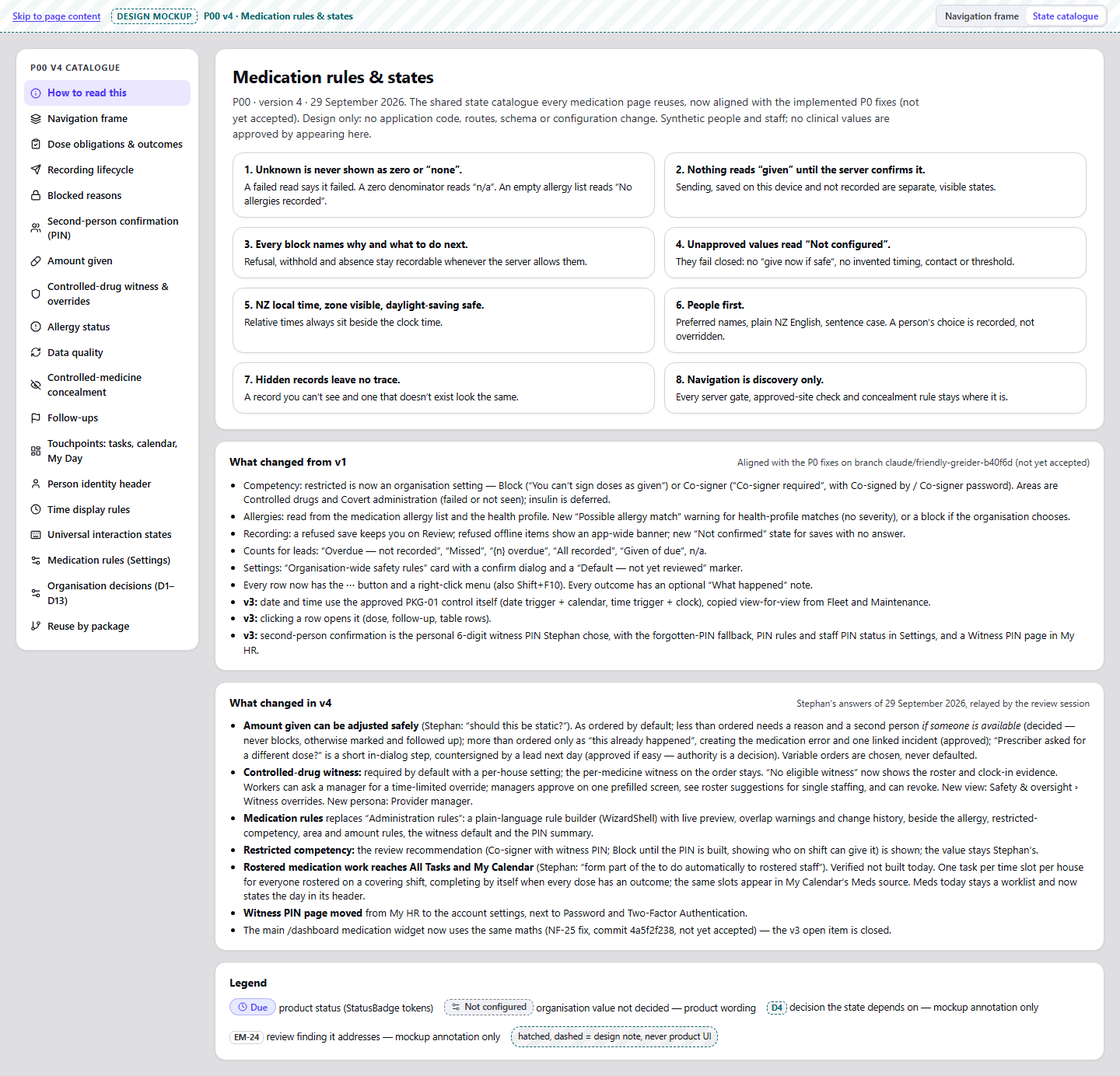
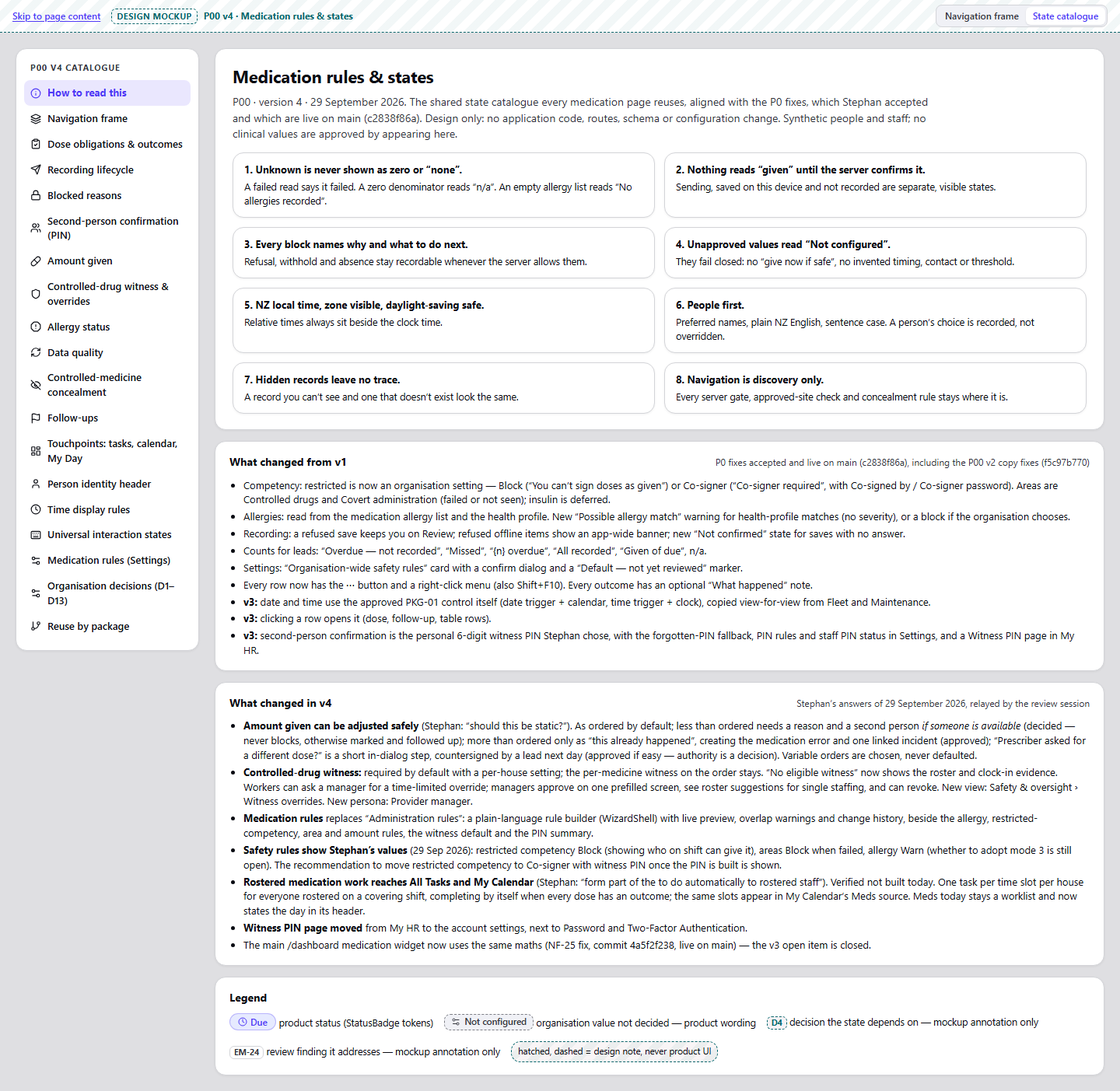
docs(emar): P00 v4 status matches main
The P0 fixes (c2838f86a), P00 v2 copy fixes (f5c97b770) and NF-25 are live
on main, and Stephan set the safety-rule values on 29 Sep 2026 (restricted
competency Block, areas Block when failed, allergy Warn). The mockup,
catalogue, README and VERSION hashes now say so; NF-26 and allergy mode 3
stay open.

diff --git a/docs/emar-design/P00/v4/mockup.js b/docs/emar-design/P00/v4/mockup.js
@@ -210,7 +210,7 @@
             text: 'Your medication competency is restricted (Hana Kereama, 2 March 2026: “supervised practice until reassessed”). A competent colleague must give doses.',
             next: ['Ask a competent colleague to give this dose. On shift now and able to give it: <b>Daniel Ahn</b>, <b>Jordan Tipene</b> (from the roster and who is clocked in).', 'Ask a competency assessor to review the restriction.'],
             still: 'notgiven', action: { label: 'View my eligibility', act: 'eligibility', icon: 'user-check' },
-            gate: 'Organisation safety rule “restricted competency” set to Block. Off by default. Review recommendation (v4): Co-signer with witness PIN; Block — showing who on shift can give it — until the witness PIN is built; never a co-signer by login password. The value is Stephan’s NF-03 decision.', depends: ['D3', 'NF-03 setting'], fixes: ['NF-03'],
+            gate: 'Organisation safety rule “restricted competency” set to Block. Off by default. Stephan set Block on 29 Sep 2026 (NF-03). Review recommendation: move to Co-signer with witness PIN once the PIN is built; never a co-signer by login password.', depends: ['D3', 'NF-03 setting'], fixes: ['NF-03'],
             note: 'Shown at the start of the dose and as-needed wizards, only when the organisation sets this rule. With Off, no notice shows and the restriction isn’t enforced.',
         },
         restrictedCosigner: {
@@ -446,7 +446,7 @@
         cdw: { org: 'on', kowhai: 'org', rimu: 'org', suggest: 'proposed' }, cdwDraft: { org: 'on', kowhai: 'org', rimu: 'org', suggest: 'proposed' },
         pinRules: { attempts: '', lockout: '', renewal: '', fallback: 'nc', fallbackCd: 'nc', resetRoles: 'nc', confirmLimit: '', routeTo: 'nc' },
         pinDraft: { attempts: '', lockout: '', renewal: '', fallback: 'nc', fallbackCd: 'nc', resetRoles: 'nc', confirmLimit: '', routeTo: 'nc' }, pinHistory: [],
-        safety: { profileAllergy: 'warn', restricted: 'off', area: 'off', amount: 'avail' }, safetyDraft: { profileAllergy: 'warn', restricted: 'off', area: 'off', amount: 'avail' }, safetySetBy: { amount: 'Stephan’s decision, 29 Sep 2026' },
+        safety: { profileAllergy: 'warn', restricted: 'block', area: 'failed', amount: 'avail' }, safetyDraft: { profileAllergy: 'warn', restricted: 'block', area: 'failed', amount: 'avail' }, safetySetBy: { profileAllergy: 'Stephan, 29 Sep 2026 — mode 3 still open', restricted: 'Stephan’s decision, 29 Sep 2026', area: 'Stephan’s decision, 29 Sep 2026', amount: 'Stephan’s decision, 29 Sep 2026' },
     };
     const SCENARIOS = [
         ['normal', 'Normal shift'],
@@ -1013,7 +1013,7 @@
                 filters: `${has(p, 'cd.view') || hub.id === 'settings' ? '' : '<span class="fchip static">Totals exclude medicines your role can’t see</span>'}<button type="button" class="fchip" data-act="toast" data-msg="Filter menus are designed with each page package (mockup).">${ic('home', 's3')}All approved houses${ic('chev-down', 's3')}</button><button type="button" class="fchip" data-act="toast" data-msg="Filter menus are designed with each page package (mockup).">${ic('calendar', 's3')}Today${ic('chev-down', 's3')}</button><span class="fchip static">${esc(view.label)} filters · ${view.pkg}</span>`,
                 rail: railHtml(items, view.id),
             });
-            body = hub.id === 'safety' && view.id === 'overview' ? `<div class="annot"><div class="a-tag">${ic('info', 's3')}Design note</div>The Overview page is redesigned in P09. Its counts already follow the P00 vocabulary below (implemented by the EM-01 fix, not yet accepted).</div>${leadCounts()}`
+            body = hub.id === 'safety' && view.id === 'overview' ? `<div class="annot"><div class="a-tag">${ic('info', 's3')}Design note</div>The Overview page is redesigned in P09. Its counts already follow the P00 vocabulary below (the EM-01 fix, live on main).</div>${leadCounts()}`
                 : hub.id === 'settings' && view.id === 'rules' ? medicationRulesView()
                 : hub.id === 'safety' && view.id === 'overrides' ? overridesView()
                 : hub.id === 'settings' && view.id === 'secondperson' ? secondPersonSettingsView()
@@ -1166,7 +1166,7 @@
      * P00 adds “Default — not yet reviewed” until someone deliberately saves a choice. */
     const SAFETY_RULES = [
         { key: 'profileAllergy', label: 'When a medicine matches a recorded allergy', help: 'The specific match is shown before signing in every mode. Built today: Warn and Block for health-profile matches; severe matches in the medication allergy list always block. The third option is new and not built.', opts: [['warn', 'Warn — show the match; “given” can still be recorded'], ['block', 'Block — contact the prescriber or an authorised override'], ['confirm', 'Block unless the prescriber has confirmed this allergy on the order (new)']], def: 'warn' },
-        { key: 'restricted', label: 'A worker’s medication competency is marked restricted', help: 'Refusals and withheld doses can always be recorded. The co-signer confirms with their own witness PIN — never their login password.', rec: 'Review recommendation: Co-signer with witness PIN. Until the witness PIN is built, Block (the dialog shows who on shift can give it). Stephan decides (NF-03).', opts: [['off', 'Off — no extra check'], ['block', 'Block — they can’t sign as given; the dialog shows who on shift can give it'], ['cosigner', 'Co-signer with witness PIN (recommended) — a present, qualified colleague confirms each dose']], def: 'off' },
+        { key: 'restricted', label: 'A worker’s medication competency is marked restricted', help: 'Refusals and withheld doses can always be recorded. The co-signer confirms with their own witness PIN — never their login password.', rec: 'Stephan set Block on 29 Sep 2026 (the dialog shows who on shift can give it). Review recommendation: move to Co-signer with witness PIN once the PIN is built — never a co-signer by login password.', opts: [['off', 'Off — no extra check'], ['block', 'Block — they can’t sign as given; the dialog shows who on shift can give it'], ['cosigner', 'Co-signer with witness PIN (recommended) — a present, qualified colleague confirms each dose']], def: 'off' },
         { key: 'area', label: 'The controlled-drug or covert area wasn’t passed', help: 'Applies to controlled-drug orders and orders with an active covert authorisation. Insulin isn’t covered yet: orders don’t record whether a medicine is insulin.', opts: [['off', 'Off — no extra check'], ['failed', 'Block when the area was failed'], ['failed_or_not_seen', 'Block when failed or not seen at assessment']], def: 'off' },
         { key: 'amount', label: 'Less than the ordered amount is given', help: 'A reason is always required. A colleague on shift confirms with their witness PIN; if nobody is available the dose is marked “Not confirmed by a second person” with a house-lead follow-up. A missing second person never blocks recording what actually happened. More than ordered is never a normal choice — it is recorded as a medication error with a linked incident.', opts: [['avail', 'If someone is available — never blocks'], ['always', 'Always — the house lead confirms later if nobody is on shift'], ['no', 'Not needed — the reason is enough']], def: 'avail' },
     ];
@@ -1174,7 +1174,7 @@
         const vals = S.safety, draft = S.safetyDraft;
         const changed = SAFETY_RULES.filter((r) => draft[r.key] !== vals[r.key]);
         return `<section class="card card-pad" aria-labelledby="sr-h" ${staticSpec ? 'inert' : 'id="sec-safety"'}><div class="cap-row" style="margin-bottom:2px"><h3 id="sr-h" tabindex="-1" style="outline:none">Organisation-wide safety rules</h3></div><p class="text-subtle" style="margin:0 0 6px;font-size:12.5px">These apply at every site when a dose is signed. Changes are recorded in the audit log.</p>
-            ${SAFETY_RULES.map((r) => `<div class="set-row"><div><label for="sr-${r.key}" style="font-weight:600;font-size:13px">${esc(r.label)}</label><div class="help">${esc(r.help)}</div></div><div><select id="sr-${r.key}" class="field" style="border:1px solid var(--input);border-radius:8px;min-height:36px;padding:0 8px;background:var(--card)" data-act="sr-sel" data-key="${r.key}" ${canManage ? '' : 'disabled'}>${r.opts.map(([v, l]) => `<option value="${v}"${draft[r.key] === v ? ' selected' : ''}>${esc(l)}</option>`).join('')}</select><div class="set-meta">${S.safetySetBy[r.key] ? `<span class="chipn">${S.safetySetBy[r.key].includes('decision') ? '' : 'Set by '}${esc(S.safetySetBy[r.key])}</span>` : `<span class="nc">${ic('settings', 's3')}Default — not yet reviewed</span>`}${r.rec ? `<span class="badge b-info sm">${ic('info')}Recommended: Co-signer with witness PIN</span>` : ''}</div>${r.rec ? `<div class="help" style="margin-top:4px">${esc(r.rec)}</div>` : ''}</div></div>`).join('')}
+            ${SAFETY_RULES.map((r) => `<div class="set-row"><div><label for="sr-${r.key}" style="font-weight:600;font-size:13px">${esc(r.label)}</label><div class="help">${esc(r.help)}</div></div><div><select id="sr-${r.key}" class="field" style="border:1px solid var(--input);border-radius:8px;min-height:36px;padding:0 8px;background:var(--card)" data-act="sr-sel" data-key="${r.key}" ${canManage ? '' : 'disabled'}>${r.opts.map(([v, l]) => `<option value="${v}"${draft[r.key] === v ? ' selected' : ''}>${esc(l)}</option>`).join('')}</select><div class="set-meta">${S.safetySetBy[r.key] ? `<span class="chipn">${S.safetySetBy[r.key].includes('decision') ? '' : 'Set by '}${esc(S.safetySetBy[r.key])}</span>` : `<span class="nc">${ic('settings', 's3')}Default — not yet reviewed</span>`}${r.rec ? `<span class="badge b-info sm">${ic('info')}Recommended later: Co-signer with witness PIN</span>` : ''}</div>${r.rec ? `<div class="help" style="margin-top:4px">${esc(r.rec)}</div>` : ''}</div></div>`).join('')}
             <div style="display:flex;justify-content:flex-end;margin-top:12px">${canManage ? `<button class="btn btn-primary btn-sm" type="button" data-act="sr-save" data-fk="sr-save" ${changed.length ? '' : 'disabled'}>Save safety rules</button>` : '<p class="text-caption" style="margin:0">Only someone who manages medication settings for all sites can change these rules.</p>'}</div>
         </section>`;
     }
@@ -1836,7 +1836,7 @@
     }
 
     function introSection() {
-        return `<div class="card cat-hero"><h1>Medication rules &amp; states</h1><p>P00 · version 4 · 29 September 2026. The shared state catalogue every medication page reuses, now aligned with the implemented P0 fixes (not yet accepted). Design only: no application code, routes, schema or configuration change. Synthetic people and staff; no clinical values are approved by appearing here.</p>
+        return `<div class="card cat-hero"><h1>Medication rules &amp; states</h1><p>P00 · version 4 · 29 September 2026. The shared state catalogue every medication page reuses, aligned with the P0 fixes, which Stephan accepted and which are live on main (c2838f86a). Design only: no application code, routes, schema or configuration change. Synthetic people and staff; no clinical values are approved by appearing here.</p>
             <div class="rules" style="margin-top:14px">
                 <div class="card rule"><b>1. Unknown is never shown as zero or “none”.</b>A failed read says it failed. A zero denominator reads “n/a”. An empty allergy list reads “No allergies recorded”.</div>
                 <div class="card rule"><b>2. Nothing reads “given” until the server confirms it.</b>Sending, saved on this device and not recorded are separate, visible states.</div>
@@ -1847,7 +1847,7 @@
                 <div class="card rule"><b>7. Hidden records leave no trace.</b>A record you can’t see and one that doesn’t exist look the same.</div>
                 <div class="card rule"><b>8. Navigation is discovery only.</b>Every server gate, approved-site check and concealment rule stays where it is.</div>
             </div></div>
-            <div class="card card-pad"><div class="cap-row"><h2>What changed from v1</h2><span class="text-caption">Aligned with the P0 fixes on branch claude/friendly-greider-b40f6d (not yet accepted)</span></div><ul style="margin:0;padding-left:18px;font-size:13px;display:grid;gap:3px">
+            <div class="card card-pad"><div class="cap-row"><h2>What changed from v1</h2><span class="text-caption">P0 fixes accepted and live on main (c2838f86a), including the P00 v2 copy fixes (f5c97b770)</span></div><ul style="margin:0;padding-left:18px;font-size:13px;display:grid;gap:3px">
                 <li>Competency: restricted is now an organisation setting — Block (“You can’t sign doses as given”) or Co-signer (“Co-signer required”, with Co-signed by / Co-signer password). Areas are Controlled drugs and Covert administration (failed or not seen); insulin is deferred.</li>
                 <li>Allergies: read from the medication allergy list and the health profile. New “Possible allergy match” warning for health-profile matches (no severity), or a block if the organisation chooses.</li>
                 <li>Recording: a refused save keeps you on Review; refused offline items show an app-wide banner; new “Not confirmed” state for saves with no answer.</li>
@@ -1862,10 +1862,10 @@
                 <li><b>Amount given can be adjusted safely</b> (Stephan: “should this be static?”). As ordered by default; less than ordered needs a reason and a second person <i>if someone is available</i> (decided — never blocks, otherwise marked and followed up); more than ordered only as “this already happened”, creating the medication error and one linked incident (approved); “Prescriber asked for a different dose?” is a short in-dialog step, countersigned by a lead next day (approved if easy — authority is a decision). Variable orders are chosen, never defaulted.</li>
                 <li><b>Controlled-drug witness:</b> required by default with a per-house setting; the per-medicine witness on the order stays. “No eligible witness” now shows the roster and clock-in evidence. Workers can ask a manager for a time-limited override; managers approve on one prefilled screen, see roster suggestions for single staffing, and can revoke. New view: Safety &amp; oversight › Witness overrides. New persona: Provider manager.</li>
                 <li><b>Medication rules</b> replaces “Administration rules”: a plain-language rule builder (WizardShell) with live preview, overlap warnings and change history, beside the allergy, restricted-competency, area and amount rules, the witness default and the PIN summary.</li>
-                <li><b>Restricted competency:</b> the review recommendation (Co-signer with witness PIN; Block until the PIN is built, showing who on shift can give it) is shown; the value stays Stephan’s.</li>
+                <li><b>Safety rules show Stephan’s values</b> (29 Sep 2026): restricted competency Block (showing who on shift can give it), areas Block when failed, allergy Warn (whether to adopt mode 3 is still open). The recommendation to move restricted competency to Co-signer with witness PIN once the PIN is built is shown.</li>
                 <li><b>Rostered medication work reaches All Tasks and My Calendar</b> (Stephan: “form part of the to do automatically to rostered staff”). Verified not built today. One task per time slot per house for everyone rostered on a covering shift, completing by itself when every dose has an outcome; the same slots appear in My Calendar’s Meds source. Meds today stays a worklist and now states the day in its header.</li>
                 <li><b>Witness PIN page moved</b> from My HR to the account settings, next to Password and Two-Factor Authentication.</li>
-                <li>The main /dashboard medication widget now uses the same maths (NF-25 fix, commit 4a5f2f238, not yet accepted) — the v3 open item is closed.</li>
+                <li>The main /dashboard medication widget now uses the same maths (NF-25 fix, commit 4a5f2f238, live on main) — the v3 open item is closed.</li>
             </ul></div>
             <div class="card card-pad"><div class="cap-row"><h2>Legend</h2></div><div style="display:flex;flex-wrap:wrap;gap:14px;align-items:center;font-size:12.5px">
                 <span>${dbadge('due')} product status (StatusBadge tokens)</span>
@@ -1914,7 +1914,7 @@
             { id: 'dose-due', name: 'Due', spec: row('due', 'Due now · 9:00 am'), wording: ['Due', 'Due now · 9:00 am'], when: 'Inside the approved window (D4) with no outcome recorded.', treatment: 'Info (primary tint). Primary “Record” button, 44 px target.', reuse: R.dose, depends: ['D4'], fixes: ['EM-01'], link: { href: hrefFrame('sw', 'today', 'schedule'), label: 'See it on Meds today' } },
             { id: 'dose-late', name: 'Late', spec: row('late', 'Due 8:00 am · 1 h 12 min ago', `<div class="banner warning" style="margin-top:6px"><span class="b-ico">${ic('alert-triangle')}</span><div class="b-body"><div class="b-title">This dose is late</div><div class="b-text">No late-dose instruction is set for this medicine. Check with the on-call contact before giving it: ${NC()}</div></div></div>`), wording: ['Late', 'Due 8:00 am · 1 h 12 min ago', 'This dose is late', 'No late-dose instruction is set for this medicine. Check with the on-call contact before giving it: Not configured'], when: 'After the approved window closes, while the dose can still be acted on this shift. Elapsed time is real time (DST-safe).', treatment: 'Warning (amber). Replaces “Give now if safe, or tell your supervisor”. When a per-medicine late instruction exists (D4), its text is shown instead, with its source.', never: '“Give now if safe”. Calling a dose late one minute after its time when a window is configured.', reuse: R.dose, depends: ['D4', 'D12'], fixes: ['EM-24', 'EM-02'], open: { label: 'Open the late dose dialog', attrs: 'data-act="record" data-row="r2" data-fk="cat-late"' } },
             { id: 'dose-not-yet-recorded', name: 'Not yet recorded', spec: row('notrecorded', '8:00 am dose · no outcome recorded') + `<p class="text-caption" style="margin:6px 0 0">Lead view: “3 not yet recorded” — never “0 due” and never “missed”.</p>`, wording: ['Not yet recorded', '8:00 am dose · no outcome recorded', 'No one has recorded what happened with this dose. It may have been given. Find out before anyone gives it, then record the outcome.'], when: 'A past obligation with no outcome once its window has closed (D4), and in every retrospective lens: handover, previous days, dashboard, reports, exports.', treatment: 'Critical. Counted from the obligation schedule, not from stored rows, so every surface shows the same number.', never: 'Shown as “missed”, blank, or counted as 0 because no row exists.', reuse: R.dose, depends: ['D4'], fixes: ['EM-01', 'EM-18'] },
-            { id: 'dose-lead-counts', name: 'Counts for leads (dashboard, client cards, handover)', spec: leadCounts() + leadCounts(true), wording: ['{n} doses due so far today across {houses}, and {n}% of due doses given so far.', '…and no doses due yet.', 'Overdue — not recorded', 'Missed', '{n} overdue', 'All recorded', 'Given of due: n/a'], when: 'Safety & oversight › Overview, client cards, handover and reports.', treatment: 'Counted from the obligation schedule on the NZ day, so the numbers match Meds today (implemented, EM-01 commit 1b9060953). “Overdue — not recorded” is the lead’s total of Late plus Not yet recorded doses; recorded “Missed” is separate. “Given of due” = given ÷ due and reads n/a when nothing is due. A person’s card says “All recorded” only when every due dose has an outcome. The main /dashboard medication widget uses the same maths (NF-25 fix, commit 4a5f2f238, not yet accepted).', never: '0 due while doses are late; 0 % or 100 % when nothing is due; a green “complete” with unrecorded doses.', reuse: ['Safety & oversight · Overview (/emar)', 'Client cards', 'Handover medication lens', 'Reports (P09)'], depends: ['D4'], fixes: ['EM-01', 'EM-18'], link: { href: hrefFrame('lead', 'safety', 'overview'), label: 'See it in Safety & oversight' } },
+            { id: 'dose-lead-counts', name: 'Counts for leads (dashboard, client cards, handover)', spec: leadCounts() + leadCounts(true), wording: ['{n} doses due so far today across {houses}, and {n}% of due doses given so far.', '…and no doses due yet.', 'Overdue — not recorded', 'Missed', '{n} overdue', 'All recorded', 'Given of due: n/a'], when: 'Safety & oversight › Overview, client cards, handover and reports.', treatment: 'Counted from the obligation schedule on the NZ day, so the numbers match Meds today (implemented, EM-01 commit 1b9060953). “Overdue — not recorded” is the lead’s total of Late plus Not yet recorded doses; recorded “Missed” is separate. “Given of due” = given ÷ due and reads n/a when nothing is due. A person’s card says “All recorded” only when every due dose has an outcome. The main /dashboard medication widget uses the same maths (NF-25 fix, commit 4a5f2f238, live on main).', never: '0 due while doses are late; 0 % or 100 % when nothing is due; a green “complete” with unrecorded doses.', reuse: ['Safety & oversight · Overview (/emar)', 'Client cards', 'Handover medication lens', 'Reports (P09)'], depends: ['D4'], fixes: ['EM-01', 'EM-18'], link: { href: hrefFrame('lead', 'safety', 'overview'), label: 'See it in Safety & oversight' } },
             { id: 'dose-missed', name: 'Confirmed missed', spec: row('missed', 'Recorded by Jordan T. at 11:30 am · Omitted in error'), wording: ['Missed', 'Recorded as missed — the dose was not given and won’t be given now.'], when: 'Only when a person records that the dose was not given and won’t be given, with a reason from the existing not-given list (for example “Omitted in error”).', treatment: 'Critical. A recorded outcome, distinct from “Not yet recorded”.', reuse: R.dose, depends: ['D4', 'D12'], fixes: ['EM-01'] },
             { id: 'dose-given', name: 'Given', spec: row('given', 'Given 1 tablet (500 mg) at 8:05 am · Priya S.', '<span class="state-line">Recorded 8:07 am</span>'), wording: ['Given', 'Given 1 tablet (500 mg) at 8:05 am · Priya S.', 'Recorded 8:07 am'], when: 'Staff gave the medicine (support level Administer) and the server confirmed it. For a variable order the actual amount is recorded, never the prescribed amount by default.', treatment: 'Success. The given time and the recorded time are both kept; detail views show both.', reuse: R.dose, depends: [], fixes: ['EM-08'] },
             { id: 'dose-prompted', name: 'Taken with prompting', spec: row('prompted', 'Taken 9:04 am · Priya S. reminded Aroha'), wording: ['Taken with prompting', 'Taken 9:04 am · Priya S. reminded Aroha'], when: 'The support plan says Prompt for this medicine and the person took it after a reminder.', treatment: 'Success, own icon. Offered instead of “Given” when the support level is Prompt.', reuse: R.dose, depends: ['D6'], fixes: ['EM-04'] },
@@ -2213,14 +2213,14 @@
             ]), wording: ['Match medicines by: Medicine name · Route · NZULM code · Type or class (new) · Controlled status (new)', 'Where it applies: All houses · Kōwhai House · Rimu House', 'Before the dose is saved: A second person confirms with their witness PIN · Record pulse · Record blood sugar (BSL) · Record blood pressure', 'Choose at least one: a second person or an observation.', 'Would apply now to {n} medicines for {n} people', 'Overlaps with another rule … Both apply where they overlap: the dose needs everything either rule asks for.', 'Showing medicines your role can see. Totals exclude medicines your role can’t see.', 'Rule added · Applies from the next dose saved.'], when: 'Add a rule, or Edit from a row.', treatment: 'Entity add/edit, so a WizardShell: what it applies to, what it requires, review. The sentence and a live preview of the medicines and people it would affect update as you choose; overlapping rules are named. Type/class matching is new and needs a medicine classification on orders (P04); controlled status uses the order’s controlled flag. The preview respects controlled-medicine concealment. No observation ranges are set here (no invented thresholds).', never: 'Silently saving a rule that requires nothing; showing controlled medicines to a role without access.', reuse: ['Settings (P11)'], depends: ['D2', 'D9'], fixes: ['EM-17', 'EM-12'], link: { href: hrefFrame('clinical', 'settings', 'rules') + '?open=rule:new', label: 'Open the builder' } },
             { id: 'rules-states', name: 'Empty, loading and couldn’t load', spec: stateStrip(['empty', 'loading', 'error'].map((d) => [{ empty: 'No rules yet', loading: 'Loading', error: 'Couldn’t load' }[d], inertBox(specW(null, () => medRulesCard(true), { rulesDemo: d }))])), wording: ['No medicine rules yet', 'Add a rule when a medicine needs a second person or an observation before each dose.', 'Loading medicine rules…', 'Couldn’t load the medicine rules', 'The rules still apply when doses are saved — this page just couldn’t show them.'], when: 'The rules list has none, is loading, or failed to load.', treatment: 'The P00 data-quality states: an error never reads as “no rules”.', reuse: ['Settings (P11)'], depends: [], fixes: ['EM-18'] },
             { id: 'rules-readonly', name: 'Read-only (no all-sites authority)', spec: `<div class="rail-more-pop ctx-menu" role="menu" aria-label="Actions (specimen)" style="position:static" inert>${menuHtml(menuItems('rule', 'mr1', 'lead'), 'spec')}</div>`, wording: ['Edit rule — Only someone who manages medication settings for all sites can change rules', 'Pause rule', 'View change history'], when: 'A house lead (or anyone without all-sites authority) opens Medication rules.', treatment: 'Everything is visible; changing actions stay listed, disabled, with the reason. Pause and resume go through a confirm dialog for those who can.', reuse: ['Settings (P11)'], depends: ['D2'], fixes: [] },
-            { wide: true, id: 'rules-safety', name: 'Safety rules alongside (restricted competency, amount)', spec: safetyRulesCard(false, true), white: true, wording: ['Recommended: Co-signer with witness PIN', 'Review recommendation: Co-signer with witness PIN. Until the witness PIN is built, Block (the dialog shows who on shift can give it). Stephan decides (NF-03).', 'Less than the ordered amount is given', 'Stephan’s decision, 29 Sep 2026'], when: 'Settings › Medication rules.', treatment: 'The allergy rule, restricted competency, the area rule and the amount rule sit on the same page as the medicine rules. Restricted competency shows the review recommendation but keeps “Default — not yet reviewed” until Stephan chooses; the co-signer never confirms with their login password. The amount rule shows Stephan’s decision.', reuse: ['Settings (P11)'], depends: ['D3', 'NF-03 setting', 'D5'], fixes: ['NF-03'] },
+            { wide: true, id: 'rules-safety', name: 'Safety rules alongside (restricted competency, amount)', spec: safetyRulesCard(false, true), white: true, wording: ['Recommended later: Co-signer with witness PIN', 'Stephan set Block on 29 Sep 2026 (the dialog shows who on shift can give it). Review recommendation: move to Co-signer with witness PIN once the PIN is built — never a co-signer by login password.', 'Less than the ordered amount is given', 'Stephan’s decision, 29 Sep 2026'], when: 'Settings › Medication rules.', treatment: 'The allergy rule, restricted competency, the area rule and the amount rule sit on the same page as the medicine rules. Stephan set restricted competency to Block and the area rule to Block when failed (29 Sep 2026); the recommendation to move to Co-signer with witness PIN once the PIN is built is shown beside it. The co-signer never confirms with their login password. The amount rule shows Stephan’s decision.', reuse: ['Settings (P11)'], depends: ['D3', 'NF-03 setting', 'D5'], fixes: ['NF-03'] },
         ].map(stateCard).join('');
     }
 
     const DECISIONS = [
         ['D1', 'Service classification per site (certified residential / supported living / respite) and which standards apply', 'Provider manager / quality', 'Needs decision', 'No state wording depends on it yet; no regulator is named anywhere.'],
         ['D2', 'Who may prompt, assist, administer, witness, verify, override; relief and agency staff; recording after clock-out; identification method. v4 proposal: a support worker may record a prescriber’s phone instruction for one dose, countersigned by a lead next day (today only medications.orders.manage creates orders)', 'Clinical governance + operations', 'Needs decision', 'Blocked reasons (shift, site, verification, shift ended), override visibility, identity check line, prescriber’s phone instruction.'],
-        ['D3', 'Competency model: areas, pass mark, restriction meaning, per-task authority, exemption limits. The NF-03 fix added settings (restricted: Off / Block / Co-signer; controlled-drug and covert areas: Off / failed / failed or not seen), all defaulting to Off. Review recommendation (v4): Co-signer with witness PIN; Block — showing who on shift can give it — until the PIN is built; never a co-signer by login password.', 'Clinical governance / L&D', 'Needs decision (NF-03 value: Stephan)', 'Competency blocks, co-signer, area not passed, exemption ended, My eligibility.'],
+        ['D3', 'Competency model: areas, pass mark, restriction meaning, per-task authority, exemption limits. The NF-03 fix added settings (restricted: Off / Block / Co-signer; controlled-drug and covert areas: Off / failed / failed or not seen), all defaulting to Off. Stephan set restricted = Block and areas = Block when failed (29 Sep 2026). Review recommendation: Co-signer with witness PIN once the PIN is built; never a co-signer by login password.', 'Clinical governance / L&D', 'Partly decided (NF-03 values set)', 'Competency blocks, co-signer, area not passed, exemption ended, My eligibility.'],
         ['D4', 'Timing and amount rules: due window, late/early, time-critical, PRN interval and amount counting, re-offer, DST rescheduling. Decided 29 Sep 2026: a partial dose needs a second person if someone is available and never blocks the record.', 'Prescriber/pharmacist advice + clinical governance', 'Partly decided (partial-dose rule)', 'Not yet due / due / late boundary, not yet recorded, re-offer, PRN limit, DST start, follow-up defaults.'],
         ['D5', 'Allergy source of truth and status vocabulary. The EM-07 fix now reads both the medication allergy list and the health profile; a health-profile match warns by default (setting: Warn / Block).', 'Health & Clinical owner', 'Needs decision', 'All allergy states, health-profile match; “No known drug allergies” hidden until approved.'],
         ['D6', 'Support levels per medicine (independent / prompt / assist / administer), consent, review triggers', 'Care planning + clinical', 'Needs decision', 'Self-managed, taken with prompting/assistance, support chip, support not recorded.'],
@@ -2233,12 +2233,12 @@
         ['D13*', 'Proposed: covert administration process (listed as organisation policy but not numbered)', 'Clinical governance', 'Proposed — not yet on the decision list', 'Covert plan missing/expired blocks.'],
     ];
     function decisionsSection() {
-        return stateCard({ id: 'org-setting-default', name: 'Organisation setting still on its default', spec: safetyRulesCard(false, true), white: true, wording: ['Default — not yet reviewed', 'Set by {name}, {date} {time}', 'Only someone who manages medication settings for all sites can change these rules.', 'Change the medication safety rules? · From the next dose signed, at every site: …'], when: 'A setting exists (for example the safety rules the NF-03 fix added) but nobody has deliberately chosen a value, so it still carries the code default (the previous behaviour).', treatment: 'The value shows with a dashed “Default — not yet reviewed” chip until someone saves a choice; then “Set by …”. Saving goes through a confirm dialog that states the effect. Read-only for people without all-sites authority.', never: 'A code default presented as approved policy.', reuse: ['Settings · Administration rules (P11)', 'Every future organisation setting'], depends: ['D3', 'D5', 'NF-03 setting'], fixes: ['NF-03', 'EM-17'], link: { href: hrefFrame('clinical', 'settings', 'rules'), label: 'Open Settings as the clinical lead' } })
+        return stateCard({ id: 'org-setting-default', name: 'Organisation setting still on its default', spec: specW(null, () => safetyRulesCard(false, true), { safety: { profileAllergy: 'warn', restricted: 'off', area: 'off', amount: 'avail' }, safetyDraft: { profileAllergy: 'warn', restricted: 'off', area: 'off', amount: 'avail' }, safetySetBy: {} }), white: true, wording: ['Default — not yet reviewed', 'Set by {name}, {date} {time}', 'Only someone who manages medication settings for all sites can change these rules.', 'Change the medication safety rules? · From the next dose signed, at every site: …'], when: 'A setting exists (for example the safety rules the NF-03 fix added) but nobody has deliberately chosen a value, so it still carries the code default (the previous behaviour).', treatment: 'The value shows with a dashed “Default — not yet reviewed” chip until someone saves a choice; then “Set by …”. Saving goes through a confirm dialog that states the effect. Read-only for people without all-sites authority.', never: 'A code default presented as approved policy.', reuse: ['Settings · Administration rules (P11)', 'Every future organisation setting'], depends: ['D3', 'D5', 'NF-03 setting'], fixes: ['NF-03', 'EM-17'], link: { href: hrefFrame('clinical', 'settings', 'rules'), label: 'Open Settings as the clinical lead' } })
             + stateCard({ id: 'not-configured', name: 'The “Not configured” pattern', spec: `<div style="display:flex;flex-direction:column;gap:8px"><span>On-call contact: ${NC()}</span><span>Late-dose instruction: ${NC()}</span><span>Support for this medicine: ${NC('Not recorded')}</span></div>`, wording: ['Not configured', 'Not recorded (a missing fact on a record, not a policy)'], when: 'An organisation value nobody has approved, or a record fact that is missing.', treatment: 'Neutral dashed chip with a settings icon. It fails closed: where safety depends on the value, the screen gives no instruction instead of a default. Settings managers will be able to set it once the setting exists (P11); nobody sees a “Set it” button before then.', never: 'A hard-coded default (“on-call nurse”, 95 % target, 120 min, 10/12 pass mark) shown as if approved.', reuse: ['Every package'], depends: [], fixes: ['EM-17'] })
             + `<div class="card" style="overflow:hidden"><div class="tbl-wrap"><table class="etable"><caption class="sr-only">Organisation decisions</caption><thead><tr><th scope="col">#</th><th scope="col">Decision</th><th scope="col">Suggested owner</th><th scope="col">Status</th><th scope="col">P00 states that wait on it</th></tr></thead><tbody>
                 ${DECISIONS.map(([d, t, o, s, st]) => `<tr id="dec-${d.replace('*', '')}"><td>${dtag(d)}</td><td>${esc(t)}</td><td>${esc(o)}</td><td class="dec-status">${s.startsWith('Decided') || s.startsWith('Partly') ? `<span class="badge b-success sm">${esc(s)}</span>` : s.startsWith('Proposed') ? `<span class="badge b-info sm">${esc(s)}</span>` : `<span class="badge b-warning sm">${esc(s)}</span>`}</td><td>${esc(st)}</td></tr>`).join('')}
             </tbody></table></div></div>
-            <div class="card card-pad"><div class="cap-row"><h3>Other open items reported by the P0 fix session</h3></div><ul style="margin:0;padding-left:18px;font-size:13px"><li>Co-signer picker on the guided round, client-profile MAR, shift card and transport: today those show only the server refusal (P01).</li><li>Enforcing “can administer unsupervised” and the insulin area: deferred (needs a data review and a medicine classification).</li><li>Closed since v3: the main /dashboard medication widget now uses the same maths (NF-25, commit 4a5f2f238, not yet accepted).</li></ul></div>`;
+            <div class="card card-pad"><div class="cap-row"><h3>Other open items reported by the P0 fix session</h3></div><ul style="margin:0;padding-left:18px;font-size:13px"><li>Co-signer picker on the guided round, client-profile MAR, shift card and transport: today those show only the server refusal (P01).</li><li>Enforcing “can administer unsupervised” and the insulin area: deferred (needs a data review and a medicine classification).</li><li>Closed since v3: the main /dashboard medication widget now uses the same maths (NF-25, commit 4a5f2f238, live on main).</li></ul></div>`;
     }
 
     function reuseSection() {

diff --git a/docs/emar-design/P00/v4/README.md b/docs/emar-design/P00/v4/README.md
@@ -5,6 +5,7 @@
 - Version: v4, 29 September 2026 (NZDT). Baseline `52dafa672`, branch `claude/vigilant-mclaren-233129`.
 - Exact file identity: [`VERSION.txt`](VERSION.txt) (SHA-256 of each mockup file). Approval applies to those hashes only.
 - Everything in the [v3 README](../v3/README.md) still applies unless changed below.
+- The P0 fixes are accepted and live on main (`c2838f86a`), including the P00 v2 copy fixes (`f5c97b770`) and NF-25 (`4a5f2f238`).
 - Design only: no application code, routes, schema, seeders, configuration, DESIGN.md or design_styles changed.
 
 ## What changed from v3
@@ -26,13 +27,13 @@ Stephan's answers of 29 September 2026 (relayed by the review session), plus his
 3. **Medication rules** replaces "Administration rules" (same URL, `/emar/settings`).
    - A plain-language rule builder (WizardShell) with a live preview, overlap warnings, Active/Paused, a confirm step and change history. Existing rules keep their meaning (countersign and/or observations; name, route or NZULM code). New: type/class matching (needs a medicine classification) and controlled-status matching.
    - Alongside: the allergy rule, restricted competency (showing the review recommendation), the area rule, the amount rule (Stephan's decision), the witness default and a summary of the PIN rules.
-4. **Restricted competency:** the recommendation (Co-signer with witness PIN; Block — showing who on shift can give it — until the PIN is built; never a login password) is shown. The value is still Stephan's (NF-03).
+4. **Safety rules show Stephan’s values** (29 September 2026): restricted competency Block (the dialog shows who on shift can give it), areas Block when failed, allergy Warn (whether to adopt mode 3 is still open). The recommendation to move restricted competency to Co-signer with witness PIN once the PIN is built — never a login password — is shown beside it.
 5. **Witness PIN page moved** from My HR to the account settings, next to Password and Two-Factor Authentication.
 6. **Rostered medication work reaches All Tasks and My Calendar** (Stephan: "these emar schedules [should] form part of the to do automatically to rostered staff").
    - One task per time slot per house for everyone rostered on a covering shift. It uses the same schedule and counts as Meds today, and it completes by itself when every dose has an outcome.
    - The same slots appear in My Calendar's Meds source, following CALENDAR_STYLE_GUIDE.
 7. **Meds today** stays a worklist, and its header now states the viewed day (see "Schedule and the calendar rules" below).
-8. The main /dashboard medication widget uses the same maths (NF-25, commit `4a5f2f238`, not yet accepted), so the v3 open item is closed.
+8. The main /dashboard medication widget uses the same maths (NF-25, commit `4a5f2f238`, live on main), so the v3 open item is closed.
 
 ## Schedule and the calendar rules
 
@@ -120,11 +121,10 @@ Then open http://127.0.0.1:4360/.
 - **Who grants witness overrides (D8):** reuse `medications.controlled.override` (today "override controlled drug discrepancy blocks") or add a new key. Recommendation: a new key.
 - Also open under D8: the longest override (Not configured), and whether managers see the roster suggestion (proposed).
 - **Rostered medication tasks (D2/D12):** who owns a slot when several staff cover the same house (proposal: everyone rostered sees it; a round's assignee or a lead narrows it). Should overdue alerts go to rostered staff and the house lead, not only a round's assignee?
-- **Restricted competency value (NF-03):** recommendation shown, not applied.
+- **Restricted competency later (NF-03):** Block is set; the recommendation is to move to Co-signer with witness PIN once the PIN is built.
 - Still pending, not treated as decided:
-  - the allergy-match mode
-  - the 7 copy fixes for the P0 code
-  - NF-26
+  - the allergy-match mode (Warn is set; mode 3, prescriber-confirmed, is still open)
+  - NF-26 (Stephan chose the fallback and test fix; no commit found on main yet)
   - PIN numbers
   - D2 / D5–D7 / D9 / D11 / D12, and proposed D13
 
